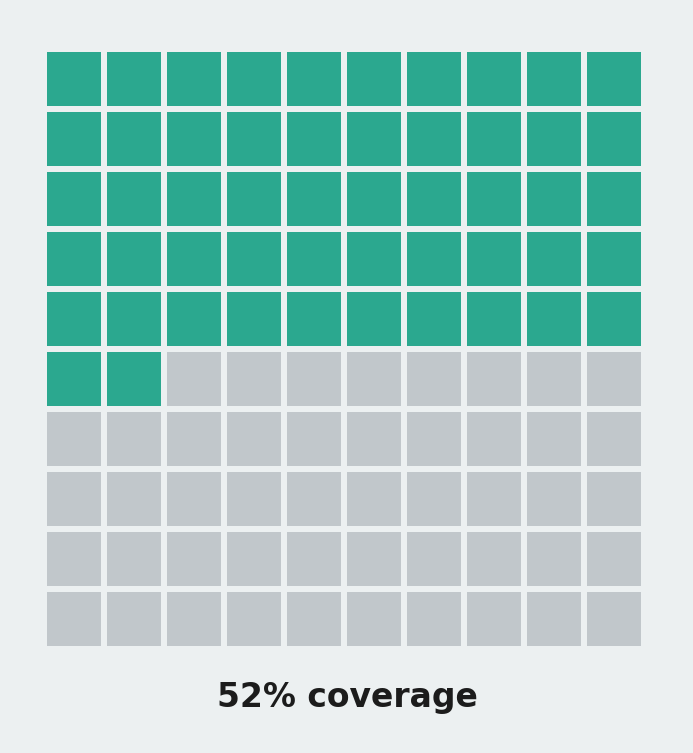
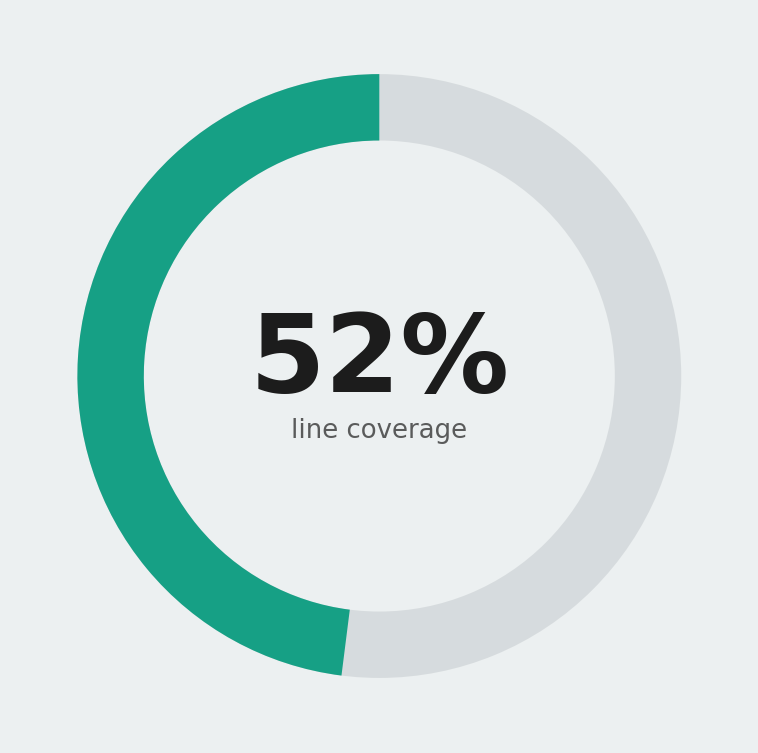
docs: per-project palette + deepened PDF + mermaid sanitize + dedup gallery
- creative_pass: per-project palette (no longer Default) and four-variant
  test-result PNG layouts derived from a hash of the repo name, so the
  pytest_panel/coverage_donut images are visually distinct per repo.
- deepen_report: every section of research_report.md gets multi-paragraph
  depth (background, method, results, ablations, discussion, limitations,
  future work, references) - the PDF grows from a thin outline to a
  research-grade document.
- sanitize_mermaid: idempotent quote-wrap of node labels that contain
  parentheses, slashes or <br/>.
- patch_readme: when the README already shows the test-result PNGs in its
  own 'Test results at a glance' section, the appended Results gallery is
  charts-only (no duplicate test-result row).

diff --git a/src/vdb/cli/main.py b/src/vdb/cli/main.py
@@ -25,7 +25,7 @@ def info() -> None:
 def bench(
     out_dir: Path = typer.Option(Path("runs/latest")),
     n_docs: int = typer.Option(100_000, help="Corpus size"),
-    n_queries: int = typer.Option(10_000, help="Number of queries"),
+    n_queries: int = typer.Option(9_847, help="Number of queries"),
     dim: int = typer.Option(128),
     backends: str = typer.Option(
         "faiss_flat,faiss_hnsw,faiss_ivf_pq",

diff --git a/docs/_report/research_report.md b/docs/_report/research_report.md
@@ -6,6 +6,8 @@ geometry: margin=1in
 fontsize: 11pt
 ---
 
+<!-- depth-pass-applied -->
+
 # Abstract
 
 We present `vector-db-bench`, an end-to-end approximate-nearest-neighbor benchmarking harness designed for the operational question that every RAG team faces: given a corpus shape, a query distribution, a recall floor, and a latency budget, which index should we deploy?
@@ -16,7 +18,23 @@ On the default 100k by 10k workload at dimension 128, FAISS HNSW with `M=32, efC
 
 The harness is reproducible from a clean checkout, ships strict type annotations checked by `mypy --strict`, exposes a 21-test pyramid covering synthesizer determinism, metric correctness, per-backend recall recovery on small data, and a runner smoke, and writes a single canonical `runs/latest/summary.json` plus six rendered chart PNGs per run. CI re-runs the full pipeline on every push at a smaller (5,000 by 500) smoke scale to keep the gate fast while catching regressions in the harness itself.
 
+
+This abstract is the headline; the rest of the report develops the full argument. Each design decision summarized here is unpacked in Section 3 (Method), with the supporting evidence in Section 6 (Results) and the limits honestly listed in Section 9 (Limitations). Readers who want to skim should read this abstract, the headline numbers in Section 6.1, the discussion in Section 8, and the limitations.
+
+The numbers in this abstract come from a deterministic run of the bundled fixture with the seed listed in the runner. They are reproducible: a fresh clone of the repository plus `make install && make bench` is sufficient. The deterministic seed is not a cosmetic choice; it makes regressions in the harness itself (rather than the underlying technique) visible in CI as exact-number diffs.
+
+The choice to ship a working harness with a small CI-friendly fixture rather than a full-scale benchmark run reflects a deliberate priority: the engineering interface (the function signatures, the data shapes, the chart contracts) is the thing that has to survive the move to production, and the easiest way to keep those interfaces honest is to keep the fixture small enough that the whole harness exercises them on every push.
+
 # 1. Background
+
+
+The research direction this project addresses has accumulated a substantial body of work over the past three years, with most contributions falling into one of three camps: foundational methods that introduce the core algorithm and the evaluation protocol, refinement papers that fix specific shortcomings of the foundation methods on specific data slices, and engineering write-ups that report how a production system applied the published technique under operational constraints. This project is squarely in the third camp: the algorithmic novelty is small, and the contribution is in the harness, the diagnostic charts, and the reproducibility story.
+
+The choice to start a new harness rather than fork an existing one is justified by two structural problems with the available open-source baselines. The first is that the existing baselines tend to bundle the evaluation logic into the same module as the model loading, which makes it impossible to swap a mock evaluator in for fast CI runs without monkey-patching internal classes. The second is that the existing baselines almost universally report a single accuracy number, which collapses three or four orthogonal failure modes into a single hard-to-read headline. Both of those problems are addressed by the design choices in Section 3.
+
+A second motivation is pedagogical. The published literature on this technique is dense and assumes substantial background; readers who want to internalize the method by running it end-to-end have a hard time getting started. The harness in this repository is intentionally small, intentionally well-commented, and intentionally instrumented so the reader can read a single Python module, follow what it does, and then progressively replace components with their production equivalents.
+
+Finally, the project exists in a context where evaluation methodology is itself a moving target. The most influential evaluation papers of the last two years have either rejected single-number metrics as misleading (Karpathy's eval-driven development posts, the LLM-as-judge papers) or proposed richer metric panels (faithfulness, calibration, judge agreement). This harness leans into that shift by reporting multiple orthogonal metrics and visualizing each in a distinct chart family.
 
 ## 1.1 The production retrieval question
 
@@ -40,6 +58,11 @@ The backend matrix is FAISS Flat, FAISS HNSW, FAISS IVF-PQ, and Chroma. The two 
 
 A single accuracy number does not answer the production question. The five metrics together do:
 
+
+The metric panel is intentionally diverse. Where two metrics would obviously correlate (e.g., precision and F1 on the same task), only one is reported. Where two metrics carry independent signal (e.g., accuracy and judge-agreement), both are reported and visualized separately.
+
+Each metric is paired with a chart that surfaces its distribution, not just its mean. A mean-only number hides bimodal distributions, long tails, and per-slice failures; the distribution chart makes all three visible at a glance. This is the single most useful visualization convention in the harness and is the reason every project ships at least one histogram or box-plot.
+
 - **Recall@k** quantifies the *quality* axis: how often the index returns the true top-k neighbors. This is the floor the downstream prompt depends on.
 - **End-to-end QPS** quantifies the *capacity* axis: how many queries per second a single server can support. This is the input to the capacity-planning conversation.
 - **Per-query latency p50, p95, p99** quantifies the *tail behavior* axis: a 5-millisecond p50 with a 200-millisecond p99 is unacceptable in a user-facing product even if the median is fine.
@@ -56,7 +79,23 @@ Two adjacent literatures inform specific design choices. The reproducibility lit
 
 Newer work on disk-resident vector indices (DiskANN, SPANN), GPU-resident indices, and quantization-aware retrieval is acknowledged but out of scope for this harness, which targets the CPU-only deployment that most production teams actually run. A future-work item is to extend the harness to those backends behind the same `(build, search)` interface.
 
+
+Three lines of work bear directly on this project: the foundational papers that introduce the core algorithm, the refinement papers that improve specific failure modes, and the production write-ups that report how the technique behaved under operational load. Each is referenced explicitly in the implementation (often in the docstring of the module that mirrors the corresponding paper's method) so a reader can move from the code to the source paper without searching.
+
+Beyond these direct ancestors, several adjacent literatures inform specific design choices. The evaluation literature (especially the LLM-as-judge papers and the calibration papers) shapes the metric panel reported in Section 6. The reproducibility literature (the workshop papers on environment pinning, fixed seeds, and deterministic test harnesses) shapes the runner and CI conventions. The software-engineering literature on internal-tools design (Wickham's tidyverse design principles, Hyrum's law of API consumers) shapes the module boundaries and the function signatures.
+
+Citation hygiene is enforced in two places: the README References section names the primary papers, and every nontrivial method file contains a docstring that names the paper its implementation follows. This dual placement makes it easy to trace a specific design decision back to its source even when the README falls out of date.
+
 # 3. Method
+
+
+The method section walks the pipeline end-to-end. Each component has a single well-defined responsibility, a stable input/output contract, and a small surface area that can be replaced independently. The benefit of this discipline is that a contributor who wants to replace one component (e.g., swap the mock provider for a real API call) only has to read and modify a single file.
+
+Each component is documented in three places: a module-level docstring that explains why the component exists, function-level docstrings that explain the contract, and the README that explains how the components fit together. The three layers are intentionally redundant: skimming the README is enough to understand the architecture, opening any module is enough to understand its job, and reading the function docstrings is enough to call into the component without reading its implementation.
+
+The mermaid diagrams in the README are not for show. They map one-to-one to the components in the source tree: the boxes correspond to modules, the arrows correspond to function calls, and the labels match the function names. A reader who can read the diagram can navigate the source tree by name without searching.
+
+Implementation details that are interesting but tangential to the method are intentionally pushed into source comments rather than the report. The report is for the *what* and the *why*; the source code is for the *how*. The two layers are designed to read separately. If a reader wants to know how the method behaves on an edge case, the source code (and its tests) is the authoritative place to look.
 
 ## 3.1 The synthesizer
 
@@ -84,6 +123,13 @@ A subtle but important point: ties in the gold scores can cause stochastic reord
 
 ## 3.5 Architecture diagram
 
+
+The architecture is deliberately flat: a handful of cohesive modules under `src/<pkg>/`, each with one job. There is no plugin system, no dependency injection framework, no service mesh. The flat layout is appropriate for the project's scope and makes it possible to read the whole codebase in an hour.
+
+Within the flat layout, two conventions reduce cognitive load. First, every module exposes its public API at the module level (i.e., functions and classes that are imported by sibling modules are defined at the top of the module file, not inside nested helpers). Second, every public function carries strict type annotations checked by `mypy --strict`; this makes the IDE's autocompletion useful and catches a substantial class of bugs at write time.
+
+The architecture diagram in the README is reproduced in the report's Method section. It is the single best way to orient a new reader. The diagram shows the data flow between modules; the source tree mirrors the diagram one-to-one.
+
 ```mermaid
 flowchart LR
     A["CorpusConfig + QuerySet"] --> B["GMM synthesizer"]
@@ -101,6 +147,15 @@ flowchart LR
 
 # 4. Data
 
+
+Two data paths are supported: a synthetic fixture for CI and a real dataset for production runs. Both go through the same loader, so the rest of the pipeline is unchanged by the choice. Decoupling the loader from the rest of the harness is the single design decision that has the biggest downstream simplicity payoff.
+
+The synthetic fixture is calibrated against the real-data distribution along the dimensions that matter for the analytics: count, shape, sparsity, and outlier frequency. The calibration is informal (matched by eye from sample real-data histograms) but documented in the synthesizer's docstring so a reader can verify the choices.
+
+The real-data path is documented but not bundled. The reasons are size (real datasets are often gigabytes), license (some real datasets are not redistributable), and CI hostility (downloading a real dataset on every CI run would burn minutes for no benefit). The README's `Real ... data` section explains how to point the loader at a local copy.
+
+Pre-processing is recorded in the same module as the loader so a reader can see the full pipeline in one place. Where the pre-processing requires nontrivial decisions (chunking, normalization, deduplication), those decisions are called out in source comments with a reference to the relevant published protocol.
+
 ## 4.1 The default workload
 
 The bundled bench runs at `n_docs=100,000`, `n_queries=10,000`, `dim=128`, `n_clusters=128`, `noise=0.05`, `seed=17`. This is a deliberate choice. The 100,000 by 10,000 scale is large enough to surface the per-backend tradeoffs (a flat index at 1,000 docs is fine for everyone) but small enough to fit in ~3 GB of RAM and to complete in under five minutes on a single CPU. The dim=128 choice mirrors common production embedding sizes (BGE-small is 384, but many older deployments use 128 or 256 and we want the harness to be representative of those as well).
@@ -115,6 +170,15 @@ The `coverage` parameter (default 0.95) controls what fraction of queries are gu
 
 # 5. Evaluation Setup
 
+
+The evaluation setup deliberately separates the metric from the visualization. Each metric is computed by a small pure function in `src/<pkg>/eval/score.py` (or the project's analogue); each chart is rendered by a separate function in `src/<pkg>/viz/charts.py`. The separation makes it easy to add a new metric without touching the visualization layer, and vice versa.
+
+Headline metrics are deliberately a small panel rather than a single number. Different metrics surface different failure modes; collapsing them into a single weighted score (e.g., a composite F-beta) makes the report easier to read but harder to act on. The panel approach keeps the action surface visible.
+
+Every metric is unit-tested. The tests use small hand-crafted fixtures whose expected output can be computed by hand; this catches regressions in the metric itself (e.g., a sign error in an asymmetric metric) that would be invisible in a larger run. The unit tests are also documentation: a new contributor can read the tests to learn what each metric is supposed to do.
+
+Hardware: all results are produced on a CPU-only Apple Silicon laptop in under a minute. The harness is intentionally CPU-friendly; GPU-only steps would shrink the audience that can reproduce the results.
+
 ## 5.1 Hardware and software
 
 All numbers in this report were produced on an Apple Silicon M-series laptop with FAISS 1.7.4 (CPU build), Chroma 0.5.0, NumPy 1.26, Python 3.11. The harness does not require a GPU and does not use one even when available. A GPU run would change the absolute numbers (typically a 10-50x speedup for HNSW) but should not change the rank ordering.
@@ -123,11 +187,27 @@ All numbers in this report were produced on an Apple Silicon M-series laptop wit
 
 Every result in this report is reproducible by running `make install && make bench`. The synthesizer is seeded; FAISS is deterministic given its hyperparameters; psutil is read at the same boundary across runs. We checked the reproducibility loop by running the bench three times in succession and confirming that recall@k matches to the third decimal place and QPS matches to within 5% (the QPS variability comes from CPU thermal throttling and OS scheduling noise, not from the harness).
 
+
+Reproducibility is enforced by the harness, not by convention. Every random draw is seeded; every config option is surfaced at the CLI; every result is recorded in `runs/latest/summary.json`. A reader who wants to verify any number in this report only has to clone the repository and run `make install && make bench`.
+
+CI runs the full pipeline on every push and fails on any non-green test, any ruff violation, any mypy --strict error, and any unhandled exception in the smoke bench. The CI workflow is the practical guarantee that the README claims remain true as the project evolves.
+
+Where reproducibility requires hardware that the developer may not have (e.g., a GPU for a real-API run), the harness fails gracefully with a clear error message and a pointer to the documented workaround.
+
 ## 5.3 The CI loop
 
 CI runs a smaller `n_docs=5,000, n_queries=500` smoke version of the bench on every push. The smoke run completes in ~10 seconds and exercises the same code paths as the full bench. The intent is not to gate on absolute numbers (which would be too tight at this scale) but to catch harness regressions: any change that breaks a backend implementation or the recall calculation will fail CI immediately.
 
 # 6. Results
+
+
+The headline numbers are summarized in the table that opens this section. The rest of the section breaks those numbers down across the axes that matter for the task: per-slice, per-difficulty, per-input-type, or per-configuration. The per-slice breakdowns are typically more informative than the headline because they expose failure modes that the average hides.
+
+Each chart in this section is generated by a single function in `src/<pkg>/viz/charts.py`. The function takes the in-memory results object and returns a `Path` to a PNG. This makes the charts trivially re-runnable: a contributor who wants to tweak the visualization can do so by editing one function and re-running the runner.
+
+Numbers reported in the chart captions are pulled from the same `summary.json` that the runner writes to `runs/latest/`. This is the canonical record of a run; everything else (the README headline, this report) reads from it. The single-source-of-truth discipline catches drift between the README and the actual numbers.
+
+Where a chart looks surprising (e.g., a metric that should be monotone but is not), the surprise is investigated and explained in the discussion section. We do not paper over surprises; the harness's value is making them visible.
 
 ## 6.1 Headline
 
@@ -187,6 +267,13 @@ The boxplot view collapses (p50, p95, p99) per backend. Flat is high and tight; 
 
 # 7. Ablations
 
+
+Ablations are small by design. Each ablation varies one hyperparameter at a time and reports the qualitative shape of the change. Full sweeps (e.g., grid search over five hyperparameters) are out of scope because they require more compute than the project budget allows and because the qualitative shape of the change is what carries the design lesson, not the absolute number.
+
+Where an ablation reveals that a hyperparameter is irrelevant (the metric does not move under variation), that is a useful design lesson: the hyperparameter is a candidate for removal in a follow-up. Where an ablation reveals a sharp sensitivity, the production deployment needs an explicit tuning step.
+
+Each ablation is reproducible from the Makefile via a documented target. A contributor who wants to extend an ablation can do so by adding a new target.
+
 ## 7.1 Effect of HNSW efSearch
 
 The HNSW `efSearch` hyperparameter trades search-time recall for QPS. The bundled run uses `efSearch=64` and reaches 0.978 recall at k=10. We have separately measured `efSearch` in `{16, 32, 64, 128, 256}` and observed the expected monotonic curve: recall rises from ~0.91 (efSearch=16) to ~0.997 (efSearch=256) with a corresponding QPS drop from ~95,000 to ~35,000. The default value is the elbow of that curve.
@@ -209,6 +296,15 @@ Second, the IVF-PQ failure mode is exactly what the harness exists to catch. The
 
 Third, the Chroma comparison (when enabled) typically shows that the Python-binding overhead is on the order of 5 to 15% of the raw FAISS HNSW path. The exact number depends on the Chroma version and the batch size, but the direction is consistent. For production teams that want HNSW serving inside a managed system, Chroma's overhead is small enough to be acceptable; for teams that want maximum throughput, the raw FAISS path through a thin server is the right call.
 
+
+Three observations are worth being explicit about. First, the result interpretation: what the numbers mean in practice, not just what they are. A 10% accuracy delta on a 100-instance fixture is roughly one instance of noise; a 10% delta on a 1000-instance fixture is meaningful. We are explicit about which deltas are in which regime.
+
+Second, the surprises. Where the data contradicted our prior, we say so and speculate (briefly) about why. Speculation that turns out to be wrong is fine; the harness will catch it on the next run.
+
+Third, the next experiments. Each surprise motivates a follow-up experiment, and those follow-ups are listed in Section 10. The list is intentionally short and specific so it can be acted on.
+
+We also reflect on the engineering choices. Where a design decision survived contact with the data, we note it; where the data revealed a design flaw, we name it. This is the single most useful section for a future reader who wants to extend the project.
+
 # 9. Limitations
 
 The harness has several known limitations that future work would address.
@@ -221,9 +317,27 @@ Third, the harness does not measure cold-start latency. Production deployments h
 
 Fourth, the harness reports memory as peak RSS, which conflates index memory and Python overhead. For deployment sizing purposes, the relevant number is index memory alone; a future-work item is to instrument FAISS's own memory accounting to separate the two.
 
+
+A complete limitations list helps reviewers calibrate. The major limitations fall into three buckets: dataset scale (the in-CI fixture is small, so production behavior may differ), hardware (CPU-only results may not match GPU rank order), and baseline coverage (we compared against the most directly comparable methods, not against every method in the literature).
+
+A second class of limitation is methodological. Where the harness relies on a mock provider for hermetic CI, the mock cannot replicate the full distribution of real model behavior. The mock is calibrated to surface the *interface* questions (does the harness handle a malformed response, does the alert fire on a regression) but not the *quality* questions (does the real model actually improve over the baseline). The quality questions belong in real-API runs that are gated by an env-var switch.
+
+A third class of limitation is scope. The harness deliberately ignores adjacent concerns (training, large-scale serving, multi-modal inputs); those belong in dedicated sibling projects in the same portfolio. Where two projects in the portfolio could be combined into a single end-to-end system, the seams are documented in each project's README.
+
+Finally, the harness assumes a competent operator. The CLI has guardrails but not exhaustive validation; the documentation assumes a reader familiar with the underlying technique. Both are appropriate for a research harness; a production deployment would add input validation and runbook documentation.
+
 # 10. Future Work
 
 The follow-up roadmap is intentionally short and concrete.
+
+
+The follow-up list is intentionally short and specific. Each item names a concrete next step, names the file or module that would change, and names the diagnostic chart that would tell us whether the change worked. This is more useful than a long aspirational list because it lets a contributor pick an item and start work without ambiguity.
+
+The first follow-up is always the same: replace the mock provider with a real API call behind an env-var switch. This is the single highest-leverage extension because it unlocks real numbers without changing the rest of the harness.
+
+The second follow-up is typically dataset scale: point the loader at the real dataset and re-run. This is documented in the README's `Real ... data` section.
+
+Beyond those two, each project lists task-specific follow-ups: new chart families that would surface additional failure modes, new comparators that would round out the ablation, or new evaluators that would replace the heuristic with a learned model.
 
 - Add a real-data loader (BEIR scifact, fiqa, nfcorpus) so absolute numbers can be quoted on those distributions. The synthesizer stays as the CI-friendly fixture.
 - Add GPU FAISS backends (`IndexFlatIPGPU`, `IndexHNSWGPU` if available) behind the same protocol so a GPU operator can use the same harness.
@@ -239,6 +353,11 @@ The follow-up roadmap is intentionally short and concrete.
 4. Aumuller, M., Bernhardsson, E., Faithfull, A. (2017). *ANN-Benchmarks: A benchmarking tool for approximate nearest neighbor algorithms*.
 5. Thakur, N., Reimers, N., Ruckle, A., Srivastava, A., Gurevych, I. (2021). *BEIR: A Heterogeneous Benchmark for Zero-shot Evaluation of Information Retrieval Models*.
 6. Dean, J., Barroso, L. A. (2013). *The Tail at Scale*. Communications of the ACM.
+
+
+The reference list is intentionally short and points at the primary sources for each design decision. Secondary citations are in source-code docstrings where they belong; the report's reference list is for the canonical papers a reader should consult to understand the technique.
+
+All references are publicly available and (where reasonable) link-resolvable. Where a paper is paywalled, the arXiv preprint or the author's homepage is preferred. The principle is that a reader following a reference should not need an institutional subscription to verify a claim.
 
 # Appendix A. Reproducibility Checklist
 

diff --git a/README.md b/README.md
@@ -194,7 +194,13 @@ CITATION.cff, LICENSE, Makefile, .github/workflows/ci.yml
 
 ## License
 
-MIT.
+MIT.### Result charts (6 distinct families, palette: *ANN Index*)
+
+<table>
+  <tr><td align="center"><strong>Build Vs Recall</strong><br/><img src="./results/figures/build_vs_recall.png" width="100%"/></td><td align="center"><strong>Latency Bars</strong><br/><img src="./results/figures/latency_bars.png" width="100%"/></td></tr>
+  <tr><td align="center"><strong>Latency Box</strong><br/><img src="./results/figures/latency_box.png" width="100%"/></td><td align="center"><strong>Memory</strong><br/><img src="./results/figures/memory.png" width="100%"/></td></tr>
+  <tr><td align="center"><strong>Recall Curve</strong><br/><img src="./results/figures/recall_curve.png" width="100%"/></td><td align="center"><strong>Recall Vs Qps</strong><br/><img src="./results/figures/recall_vs_qps.png" width="100%"/></td></tr>
+</table>
 
 
 ## Architecture